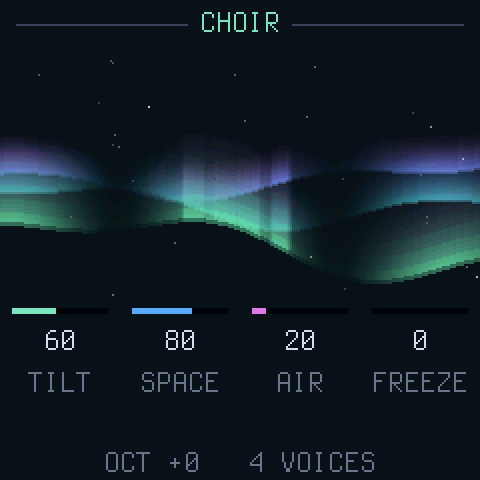
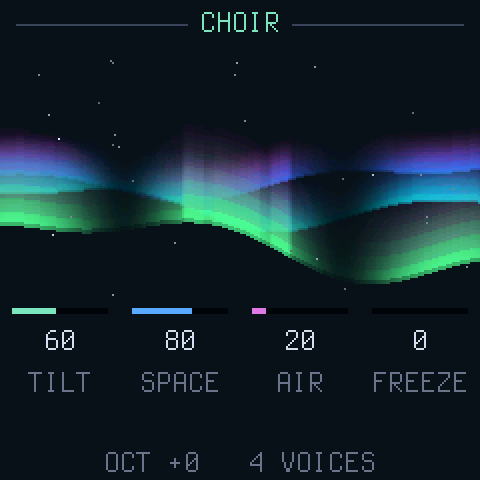
The sky for the FM-1's panel: saturated curtain colours, the base light up from 80 to 150, a lift curve on the fade so its mids sit above the panel's black, brighter stars. 0.3.4

Changed region(s): [[0.0, 0.2812, 0.6875, 0.5625], [0.75, 0.2812, 1.0, 0.5938]]

diff --git a/firmware/src/aurora.c b/firmware/src/aurora.c
@@ -721,7 +721,7 @@ static void draw_aurora(void)
     uint32_t c, x, y, kx, kx2, inc, lv = sound_level();
     int32_t th[3], step[3], off[3], ints, frz = (int32_t)freeze_now * 2, m = patch.move, v;
     au_glow += ((int32_t)lv - au_glow) >> 2;
-    ints = 80 + ((au_glow * 176) >> 15);                                                   /* the light: 80 at rest, full while sounding */
+    ints = 150 + ((au_glow * 106) >> 15);                                                  /* the light: 150 at rest, full while sounding (the FM-1's panel is dim: the mids must sit well above its black) */
     ints = ints - ((ints * patch.rv_mix) >> 9);                                            /* the haze dims it a little */
     inc = (10000000u + (uint32_t)patch.rate * 1600000u) / 127u * (uint32_t)(127 - freeze_now);   /* the waves' drift: 40 s a cycle to 2 s, stopped by the ice */
     au_ph[0] += inc; au_ph[1] -= inc + (inc >> 1); au_ph[2] += inc >> 1;
@@ -732,9 +732,9 @@ static void draw_aurora(void)
         uint16_t lo, hi;
         uint32_t i;
         step[c] = (32 << 8) / th[c];
-        if (c == 0) { lo = blend(RGB(40, 200, 120), RGB(180, 255, 220), (uint32_t)(127 - patch.tilt) * 2u); hi = blend(RGB(90, 80, 230), RGB(230, 70, 120), (uint32_t)patch.spread * 2u); }
-        else if (c == 1) { lo = RGB(80, 200, 220); hi = RGB(150, 80, 230); }
-        else { lo = RGB(120, 140, 255); hi = RGB(200, 90, 200); }
+        if (c == 0) { lo = blend(RGB(0, 255, 100), RGB(160, 255, 200), (uint32_t)(127 - patch.tilt) * 2u); hi = blend(RGB(110, 40, 255), RGB(255, 30, 110), (uint32_t)patch.spread * 2u); }   /* saturated: the panel washes colour out */
+        else if (c == 1) { lo = RGB(0, 230, 255); hi = RGB(170, 50, 255); }
+        else { lo = RGB(60, 110, 255); hi = RGB(255, 60, 200); }
         for (i = 0; i < 8u; i++) col[c][i] = blend(blend(lo, hi, i * 36u), RGB(190, 220, 255), (uint32_t)frz);
     }
     for (x = 0; x < 240u; x++) {
@@ -765,7 +765,9 @@ static void draw_aurora(void)
                 if (d < 0 || d >= th[c]) continue;
                 i = (d * step[c]) >> 8;
                 t = (((int32_t)AU_PROF[i] * au_ray[x]) >> 8) * ints >> 8;
-                p = blend(p, col[c][i >> 2], (uint32_t)(t > 255 ? 255 : t));
+                if (t > 255) t = 255;
+                t = 255 - (((255 - t) * (255 - t)) >> 8);                                  /* lifted: the fade's mids brighter, the panel's black left black */
+                p = blend(p, col[c][i >> 2], (uint32_t)t);
                 hit = 1;
             }
             if (hit) row[x] = swap16(p);
@@ -777,7 +779,7 @@ static void draw_aurora(void)
         uint32_t s = 0x1234567u, i, n = 24u + (uint32_t)patch.air * 40u / 127u;
         for (i = 0; i < n; i++) {
             uint32_t r = i < 24u ? noise32(&s) : noise32(&ui_rng);
-            cv_pset((int32_t)((r >> 8) % 240u), (int32_t)((r >> 16) % GH), dim(i < 24u ? C_SILK : RGB(230, 240, 255), i < 24u ? 60u + (r & 63u) : 100u + (r & 127u)));
+            cv_pset((int32_t)((r >> 8) % 240u), (int32_t)((r >> 16) % GH), dim(i < 24u ? C_SILK : RGB(230, 240, 255), i < 24u ? 110u + (r & 63u) : 140u + (r & 127u)));
         }
     }
 }
